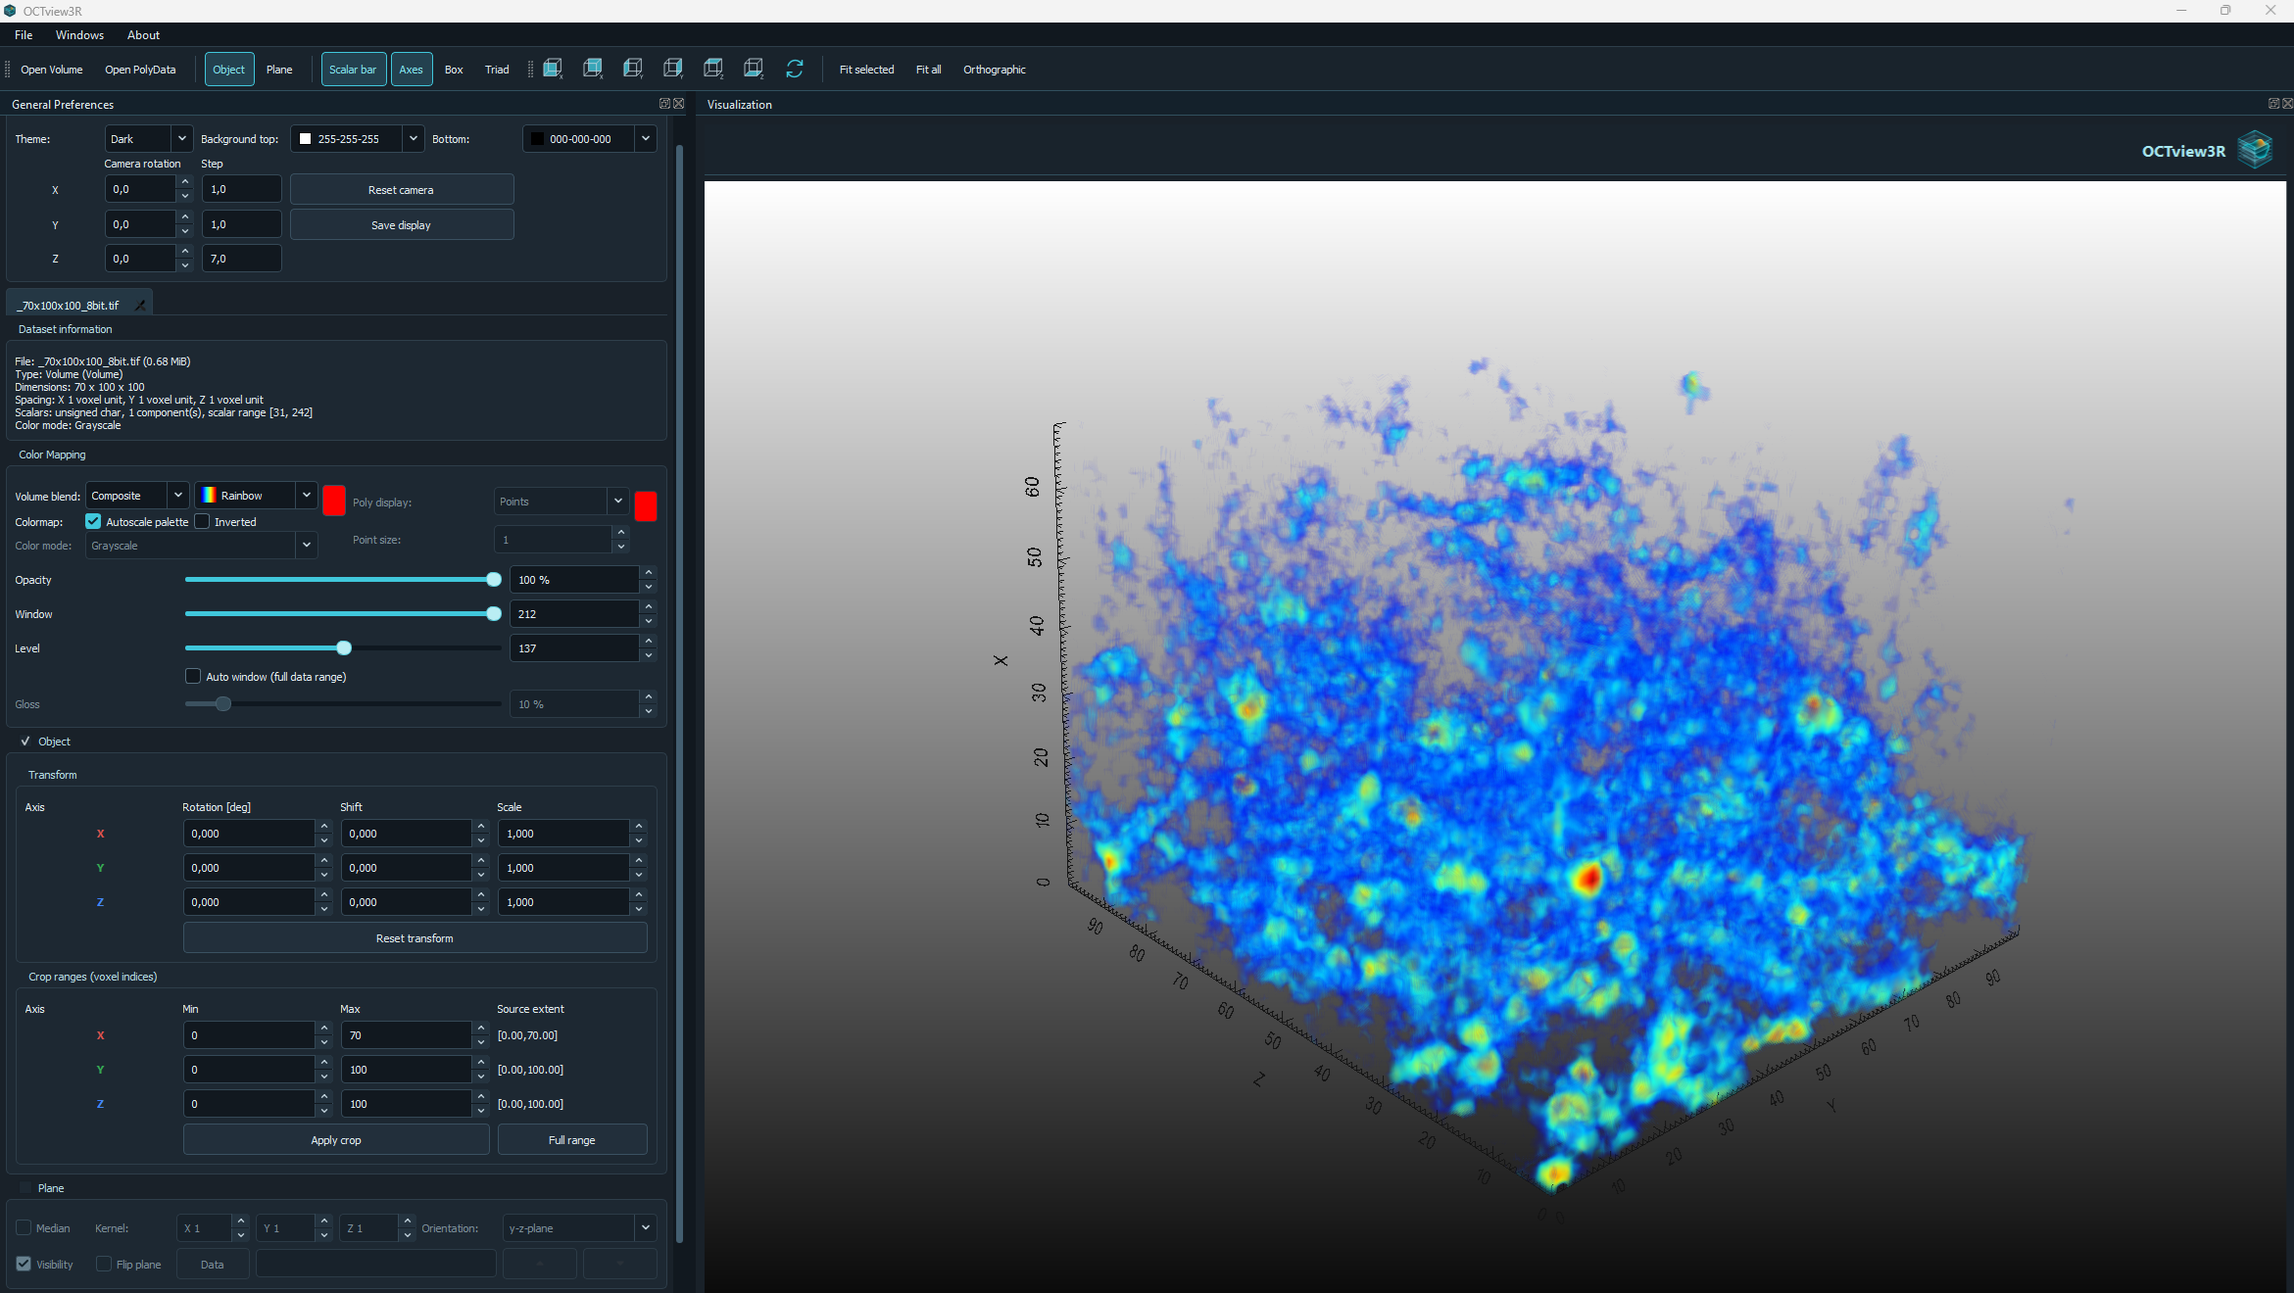
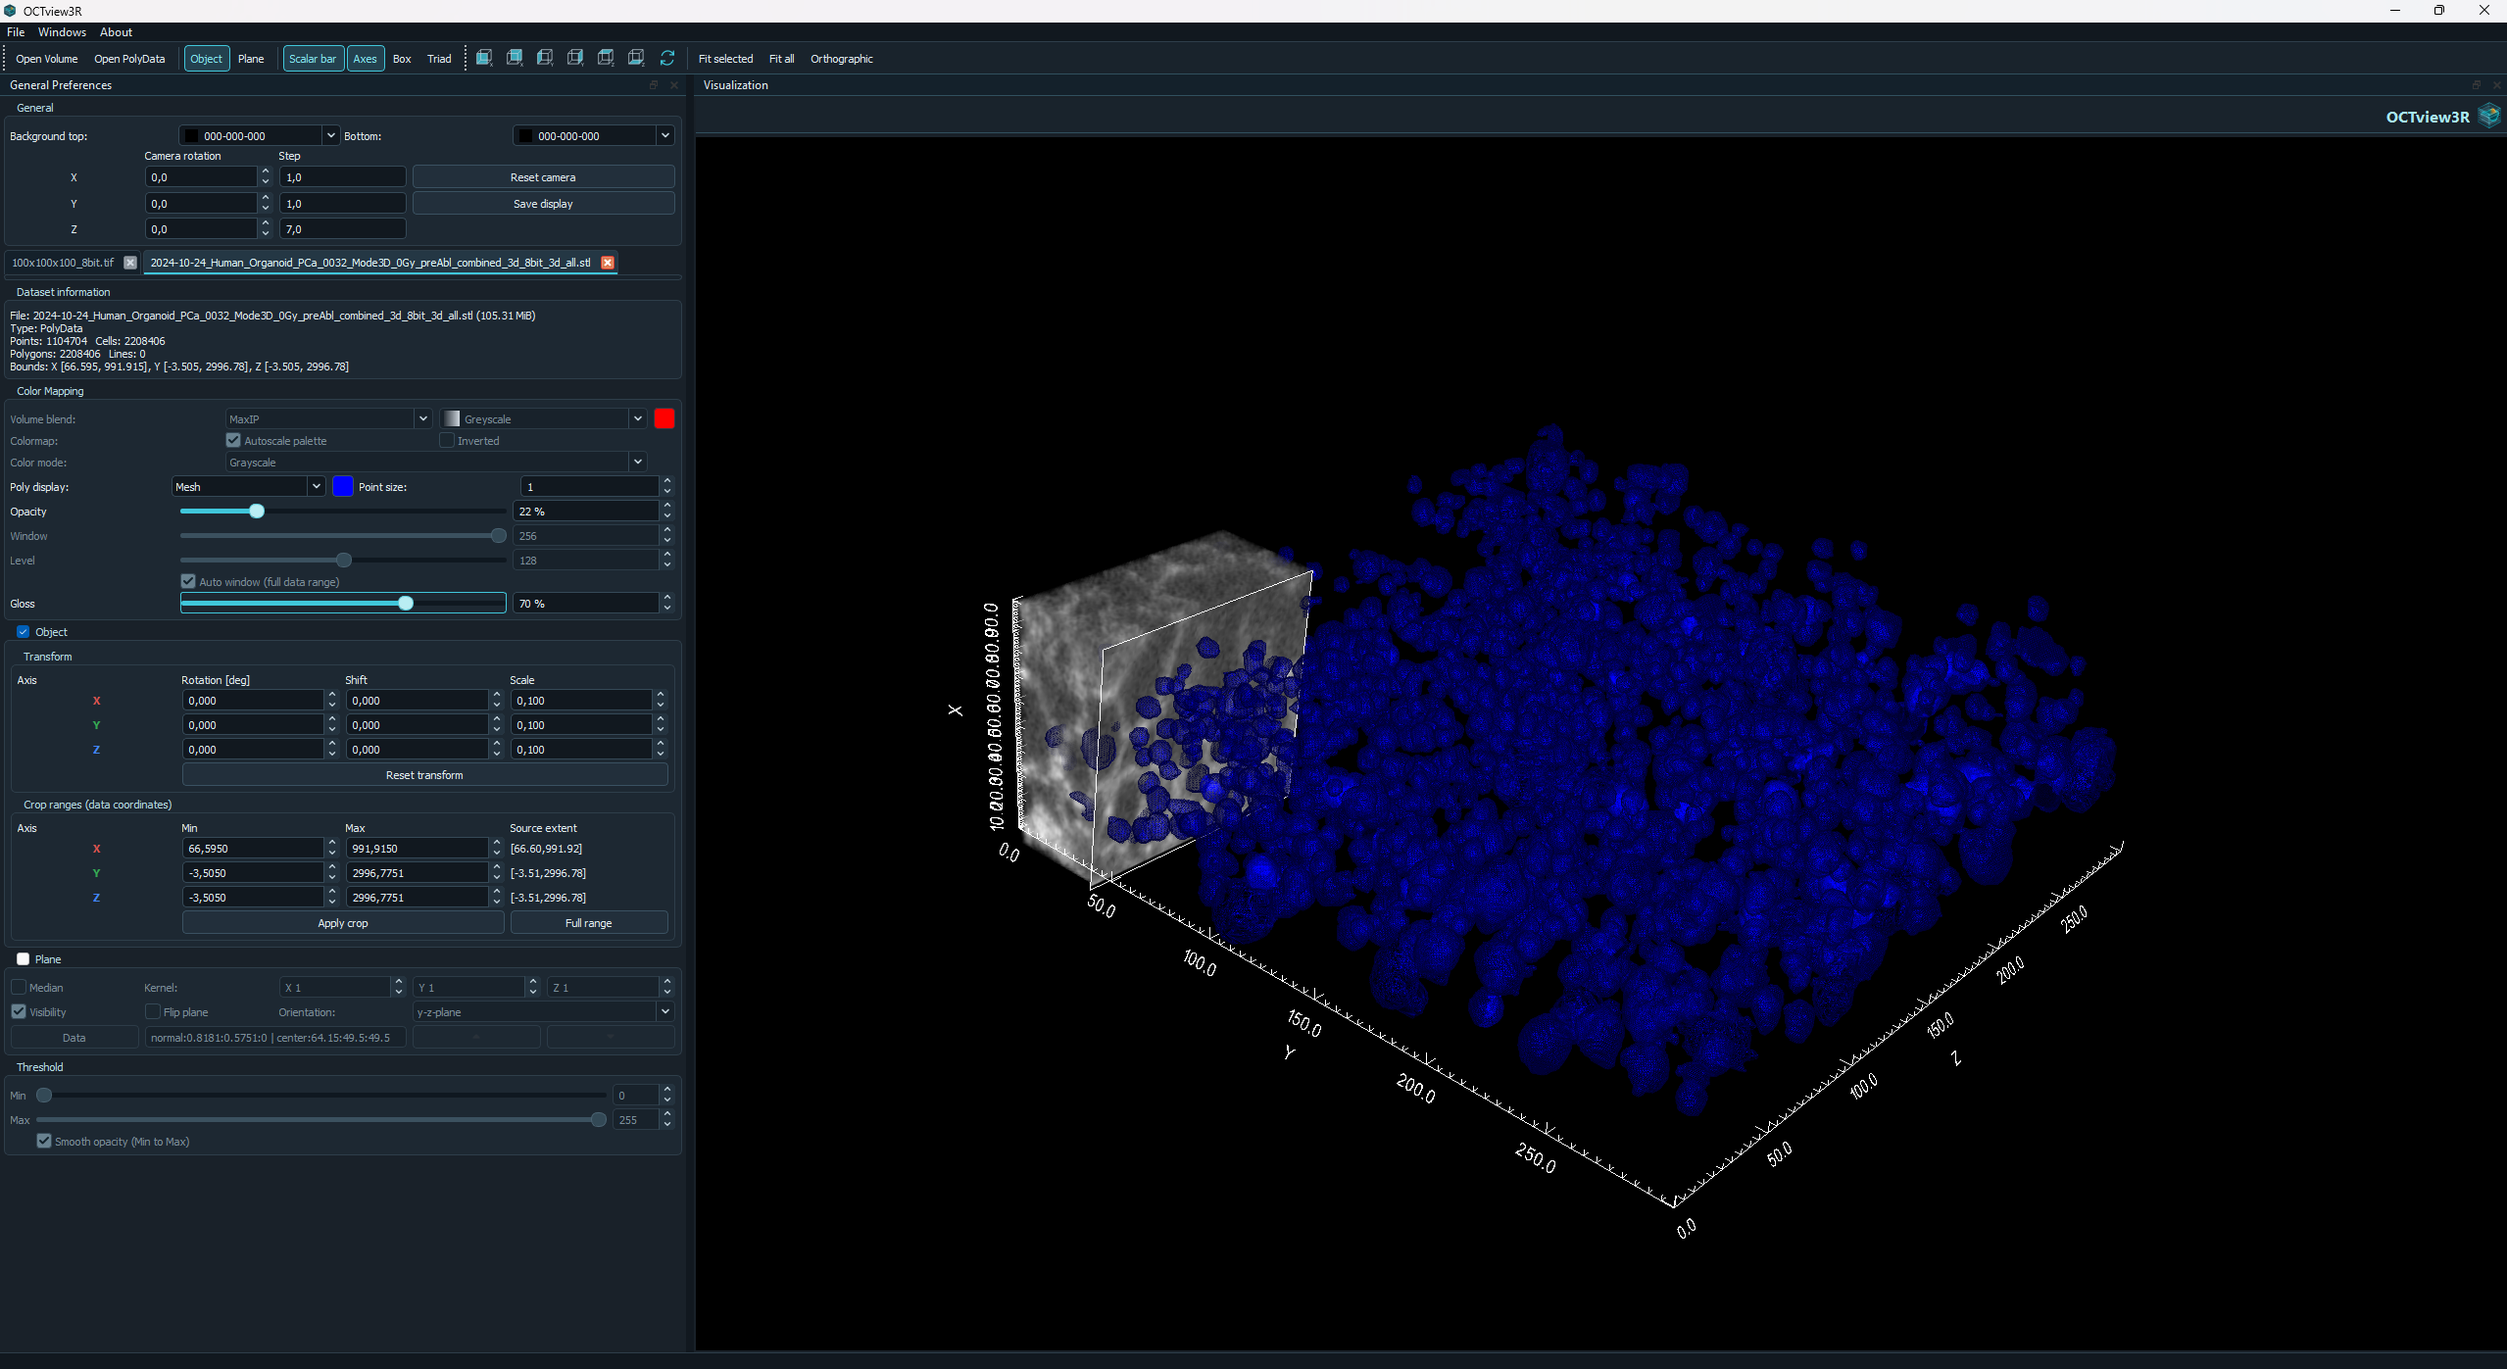
Refresh interface screenshot and add watermark-free paper review copy

diff --git a/paper/make_review_copy.py b/paper/make_review_copy.py
@@ -1,0 +1,113 @@
+"""Remove only Inara's large DRAFT watermark from an author-review PDF.
+
+The original journal output must be retained separately. This does not change
+submission status, publication metadata, or DOI placeholders. Fail closed when
+the template changes instead of deleting arbitrary text or painting over pages.
+"""
+
+import argparse
+import hashlib
+import io
+import re
+from pathlib import Path
+
+from pypdf import PdfReader, PdfWriter
+from pypdf.generic import ArrayObject, ByteStringObject, TextStringObject
+
+
+def normalized(text):
+    return re.sub(r"\s+", "", text)
+
+
+def preserve_string_bytes(value):
+    # Inara uses custom CID fonts. Re-encoding an auto-decoded PDF string can
+    # discard two-byte glyph codes, even though its Python text looks valid.
+    if isinstance(value, TextStringObject):
+        return ByteStringObject(value.original_bytes)
+    if isinstance(value, ArrayObject):
+        return ArrayObject([preserve_string_bytes(item) for item in value])
+    return value
+
+
+def page_signature(page):
+    """Check the non-text content as well as extracted text after rewriting."""
+    images = sorted(hashlib.sha256(image.data).hexdigest() for image in page.images)
+    links = []
+    for ref in page.get("/Annots", []):
+        annotation = ref.get_object()
+        action = annotation.get("/A", {})
+        links.append((str(annotation.get("/Subtype")), str(annotation.get("/Rect")),
+                      str(action.get("/URI", ""))))
+    return list(page.mediabox), images, links
+
+
+def make_review_copy(source, destination):
+    source, destination = Path(source).resolve(), Path(destination).resolve()
+    if source == destination:
+        raise ValueError("Keep the original PDF: input and output must differ")
+    reader = PdfReader(source)
+    if reader.is_encrypted:
+        raise ValueError("Encrypted PDF is not supported")
+    writer = PdfWriter(clone_from=reader)
+    expected_text = []
+    signatures = []
+
+    for number, page in enumerate(writer.pages, start=1):
+        large_text = []
+
+        def visit(text, cm, tm, font, size):
+            if size > 100 and text.strip():
+                large_text.append(text.strip())
+
+        before = page.extract_text(visitor_text=visit)
+        if large_text != ["DRAFT"]:
+            raise ValueError(f"Page {number}: expected exactly one large DRAFT watermark")
+        contents = page.get_contents()
+        size = 0
+        stack = []
+        remove = []
+        for index, (operands, operator) in enumerate(contents.operations):
+            if operator == b"q":
+                stack.append(size)
+            elif operator == b"Q":
+                size = stack.pop()
+            elif operator == b"Tf":
+                size = float(operands[1])
+            elif operator in (b"Tj", b"TJ", b"'", b'"') and size > 100:
+                remove.append(index)
+        if len(remove) != 1:
+            raise ValueError(f"Page {number}: unexpected watermark drawing structure")
+        signatures.append(page_signature(page))
+        expected_text.append(normalized(before.replace("DRAFT", "", 1)))
+        # Remove the text drawing instruction, keeping graphics state and all
+        # other drawing operations intact. No page rasterization or redaction.
+        del contents.operations[remove[0]]
+        contents.operations = [([preserve_string_bytes(item) for item in operands], operator)
+                               for operands, operator in contents.operations]
+        page.replace_contents(contents)
+        if normalized(page.extract_text()) != expected_text[-1]:
+            raise ValueError(f"Page {number}: manuscript text changed")
+
+    buffer = io.BytesIO()
+    writer.write(buffer)
+    buffer.seek(0)
+    result = PdfReader(buffer)
+    if len(result.pages) != len(reader.pages):
+        raise ValueError("Page count changed")
+    for index, page in enumerate(result.pages):
+        if normalized(page.extract_text()) != expected_text[index]:
+            raise ValueError(f"Page {index + 1}: text did not survive serialization")
+        if page_signature(page) != signatures[index]:
+            raise ValueError(f"Page {index + 1}: images, links or page geometry changed")
+    destination.parent.mkdir(parents=True, exist_ok=True)
+    destination.write_bytes(buffer.getvalue())
+    print(f"PASS: removed {len(result.pages)} large watermarks; text, images, links and page geometry preserved")
+    print(destination)
+
+
+if __name__ == "__main__":
+    parser = argparse.ArgumentParser(description=__doc__)
+    parser.add_argument("source", type=Path)
+    parser.add_argument("destination", type=Path)
+    args = parser.parse_args()
+    make_review_copy(args.source, args.destination)

diff --git a/paper/README.md b/paper/README.md
@@ -14,6 +14,10 @@ OCTproZ JOSS paper.
   filter chains, units, transparency, memory handling, and verification limits
 - `figures/octview3r-interface.png`: current application screenshot, shared
   with the repository README so both use the same image
+- `make_review_copy.py`: removes only the large DRAFT watermark from the
+  JOSS-generated PDF, retaining all manuscript content and publication metadata
+- `paper.pdf`: generated JOSS-format author-review copy without that watermark
+  (ignored by Git); `paper-joss-draft.pdf` preserves the unmodified build
 - `figures/overlay-pipeline.png`: OCT/PolyData rendering architecture
 - `figures/lens-oct-polydata-overlay.png`: historical lens application from
   Figure 10.6 of Jan Hahn's dissertation
@@ -45,6 +49,11 @@ The review PDF is only a layout aid. The authoritative submission source is
 - The 1 October 2026 interface update: compact dark-only styling, independently
   previewable Designer forms, GUI checks at three display scales, and VTK
   shutdown checks. These interface tests are not scientific image validation.
+- Jan Hahn supplied the updated interface screenshot on 1 October 2026 for
+  the README and paper. It shows the cherry example volume and independently
+  imported organoid meshes in one scene, not a registered pair from the same
+  specimen. It is an interface illustration, not an organoid result figure;
+  the underlying organoid meshes are not distributed.
 - Eight additional references checked on 14 September 2026: direct volume
   rendering (Levoy, 1988), mixed polygon/volume rendering (Levoy, 1990), transfer
   functions (Kindlmann and Durkin, 1998), OCT speckle (Schmitt et al., 1999),
@@ -86,7 +95,8 @@ documented cherry TIFF/RAW data; legacy PDF/text references have been removed.
   available. The included diagram currently documents the workflow only.
 - Jan Hahn confirmed on 15 September 2026 that he alone holds the dissertation
   rights and permits reuse of the selected figure. He also approved public
-  inclusion of the organoid concept. The future organoid result image still
+  inclusion of the organoid concept. The supplied interface illustration does
+  not replace a matched organoid OCT/segmentation result image, which still
   needs its own provenance, caption and approval before it is added.
 - Expand the existing automated regression tests and add CI. The current
   numerical/UI checks do not replace rendered-image comparisons or benchmarks.
@@ -104,8 +114,18 @@ documented cherry TIFF/RAW data; legacy PDF/text references have been removed.
 The `JOSS paper draft` GitHub Actions workflow runs manuscript consistency
 checks and the official Open Journals PDF generator. It is also available via
 **Actions > JOSS paper draft > Run workflow**. Download the resulting
-`octview3r-joss-paper` artifact and inspect its PDF. This workflow is paper CI,
+`octview3r-joss-paper` artifact and inspect `paper.pdf`. The artifact also keeps
+the original `paper-joss-draft.pdf`. The review-copy step removes only the large
+DRAFT watermark; it does not change the unpublished status, invent a DOI, or
+turn the output into an accepted journal proof. This workflow is paper CI,
 not a Windows C++/Qt/VTK test runner, and never submits the paper to JOSS.
+
+To reproduce the watermark-free copy locally, install the workflow's pinned
+`pypdf` dependency and run:
+
+```powershell
+python .\paper\make_review_copy.py .\paper\paper-joss-draft.pdf .\paper\paper.pdf
+```
 
 Use the JOSS `inara` toolchain described in the JOSS documentation when Docker
 or the required container runtime is available. The local review renderer can

diff --git a/paper/paper.md b/paper/paper.md
@@ -42,10 +42,11 @@ contribution is a focused research interface and maintainable integration of
 established visualization methods, not a new reconstruction, segmentation, or
 registration algorithm.
 
-![OCTview3R 1.1.0 displaying the non-medical cherry OCT example using composite
-volume rendering and the Rainbow palette. The dark interface shows
-dataset metadata, independent palette autoscaling and window/level controls,
-object transforms, and crop ranges.](figures/octview3r-interface.png){ width=100% }
+![OCTview3R 1.1.0 with its compact dark interface, displaying a grayscale cherry
+example volume and separately imported organoid meshes (blue). This
+illustrative scene combines independent datasets, not a registered volume and
+segmentation of the same specimen. The control panel provides per-dataset
+appearance, opacity, gloss, transforms, and crop ranges.](figures/octview3r-interface.png){ width=100% }
 
 # Statement of need
 
@@ -136,8 +137,8 @@ before RGBA assembly; existing input alpha is not preserved. Scalar and RGB
 slice planes retain opaque black pixels, unlike the transparent background of
 the volume. Composite, additive, and intensity-projection modes are available.
 False-colour palettes aid exploration but can introduce perceptual emphasis
-[@crameri2020]; the Rainbow screenshot illustrates interface functionality, not
-a quantitative colour scale.
+[@crameri2020]; colours used to distinguish geometry in the interface screenshot
+are display choices, not a quantitative colour scale.
 
 ## Coordinates and joint rendering
 

diff --git a/README.md b/README.md
@@ -32,12 +32,14 @@ invited collaborators can access releases.
 
 ## Screenshots
 
-![OCTview3R displaying the non-medical cherry OCT example with composite volume rendering and the Rainbow palette in the dark theme](paper/figures/octview3r-interface.png)
+![OCTview3R compact dark interface displaying a grayscale cherry example volume and separately imported blue organoid meshes](paper/figures/octview3r-interface.png)
 
-*Composite volume rendering of the included non-medical cherry OCT data set
-with the Rainbow palette. The dark interface shows dataset metadata,
-independent palette autoscaling and window/level controls, object transforms,
-and crop ranges.*
+*The compact dark interface displaying the grayscale cherry example volume
+together with separately imported organoid meshes (blue). This illustrative
+scene combines independent datasets; it is not a registered OCT/segmentation
+pair from the same specimen. Per-dataset appearance, opacity, gloss, transforms,
+and crop ranges are available in the control panel. The organoid mesh data are
+not distributed with the software.*
 
 <p align="center">
   <img src="docs/images/octview3r-about.png" width="520" alt="OCTview3R About dialog in the dark theme with the cyan OCT-volume logo, version 1.1.0, authors, acknowledgements, and license">

diff --git a/docs/public-release-checklist.md b/docs/public-release-checklist.md
@@ -11,8 +11,10 @@ that every file is cleared. Publication is a separate author decision.
       [example-data provenance](../OCTview3R/ImageData/README.md).
 - [x] Jan Hahn confirmed that he alone holds the dissertation rights and permits
       reuse of the selected lens figure.
-- [x] Jan Hahn approved public inclusion of the organoid concept. No new organoid
-      result image is available yet; each future image needs separate review.
+- [x] Jan Hahn approved public inclusion of the organoid concept and supplied
+      the 1 October 2026 GUI screenshot for the paper/README. Its caption states
+      that cherry OCT and organoid meshes are independent datasets, not a
+      registered pair. Each future scientific result image needs separate review.
 - [x] Jan Hahn authorized removal of deleted VTK-family exports and obsolete
       personal paths from branch/tag history, with a private local backup.
       See [history-cleanup scope](history-cleanup.md).

diff --git a/paper/SUBMISSION_CHECKLIST.md b/paper/SUBMISSION_CHECKLIST.md
@@ -38,8 +38,10 @@ Already present in OCTview3R:
       happened, and identify the tools/models as accurately as the records allow.
 - [x] Jan Hahn confirmed on 15 September 2026 that he alone holds the dissertation
       rights and permits reuse of the selected figure.
-- [x] Jan Hahn approved public inclusion of the organoid concept. No organoid
-      result image is supplied yet; clear each future image separately.
+- [x] Jan Hahn approved public inclusion of the organoid concept and supplied
+      an interface illustration on 1 October 2026. It combines cherry OCT and
+      organoid meshes, not a matched organoid result pair; clear each future
+      scientific result image separately.
 - [ ] Decide whether to add a publishable organoid OCT/segmentation overlay with
       calibration, acquisition context, segmentation provenance, and explicit
       consent to disclose the image. A representative result would strengthen

diff --git a/packaging/RELEASE_NOTES-1.1.0.md b/packaging/RELEASE_NOTES-1.1.0.md
@@ -46,6 +46,10 @@ Follow institutional IT policy; do not disable Windows security.
 - Acknowledgement of Miroslav Zabic's advice on preparing the public release.
 - Installer and pipeline regression tests, architecture documentation, updated
   screenshots, and an expanded JOSS manuscript draft.
+- Updated README/paper interface illustration with grayscale volume and blue
+  organoid geometry, explicitly described as independent demonstration datasets.
+  The paper build also provides a review copy without the large DRAFT watermark;
+  the manuscript remains unpublished.
 
 ## Verification and limitations
 

diff --git a/packaging/README.md b/packaging/README.md
@@ -33,6 +33,9 @@ Outputs under `dist/installer/`:
 - `payload/OCTview3R/`, including `BUILD-MANIFEST.json` with source commit,
   compiler version, and per-file hashes
 
+The payload also includes the README's interface and About screenshots so its
+image links work offline. These are illustrations, not loadable research data.
+
 `-AllowDirty` permits local preview builds, not release publication.
 `-TestPackage` changes the installer AppId to isolate smoke-test registration.
 Never upload artifacts whose manifest has `source_dirty` or `test_package` set.

diff --git a/CHANGELOG.md b/CHANGELOG.md
@@ -22,6 +22,9 @@ uses [Semantic Versioning](https://semver.org/).
 
 ### Changed
 
+- Updated the shared README/paper screenshot to the compact interface with
+  independently loaded grayscale volume and organoid geometry, and added a
+  reproducible watermark-free manuscript review copy without changing its status.
 - Restored smooth intensity-dependent opacity for grayscale volumes, with an
   optional uniform-opacity mode retaining the hard threshold appearance.
 - Separated threshold-based palette autoscaling from automatic and manual
